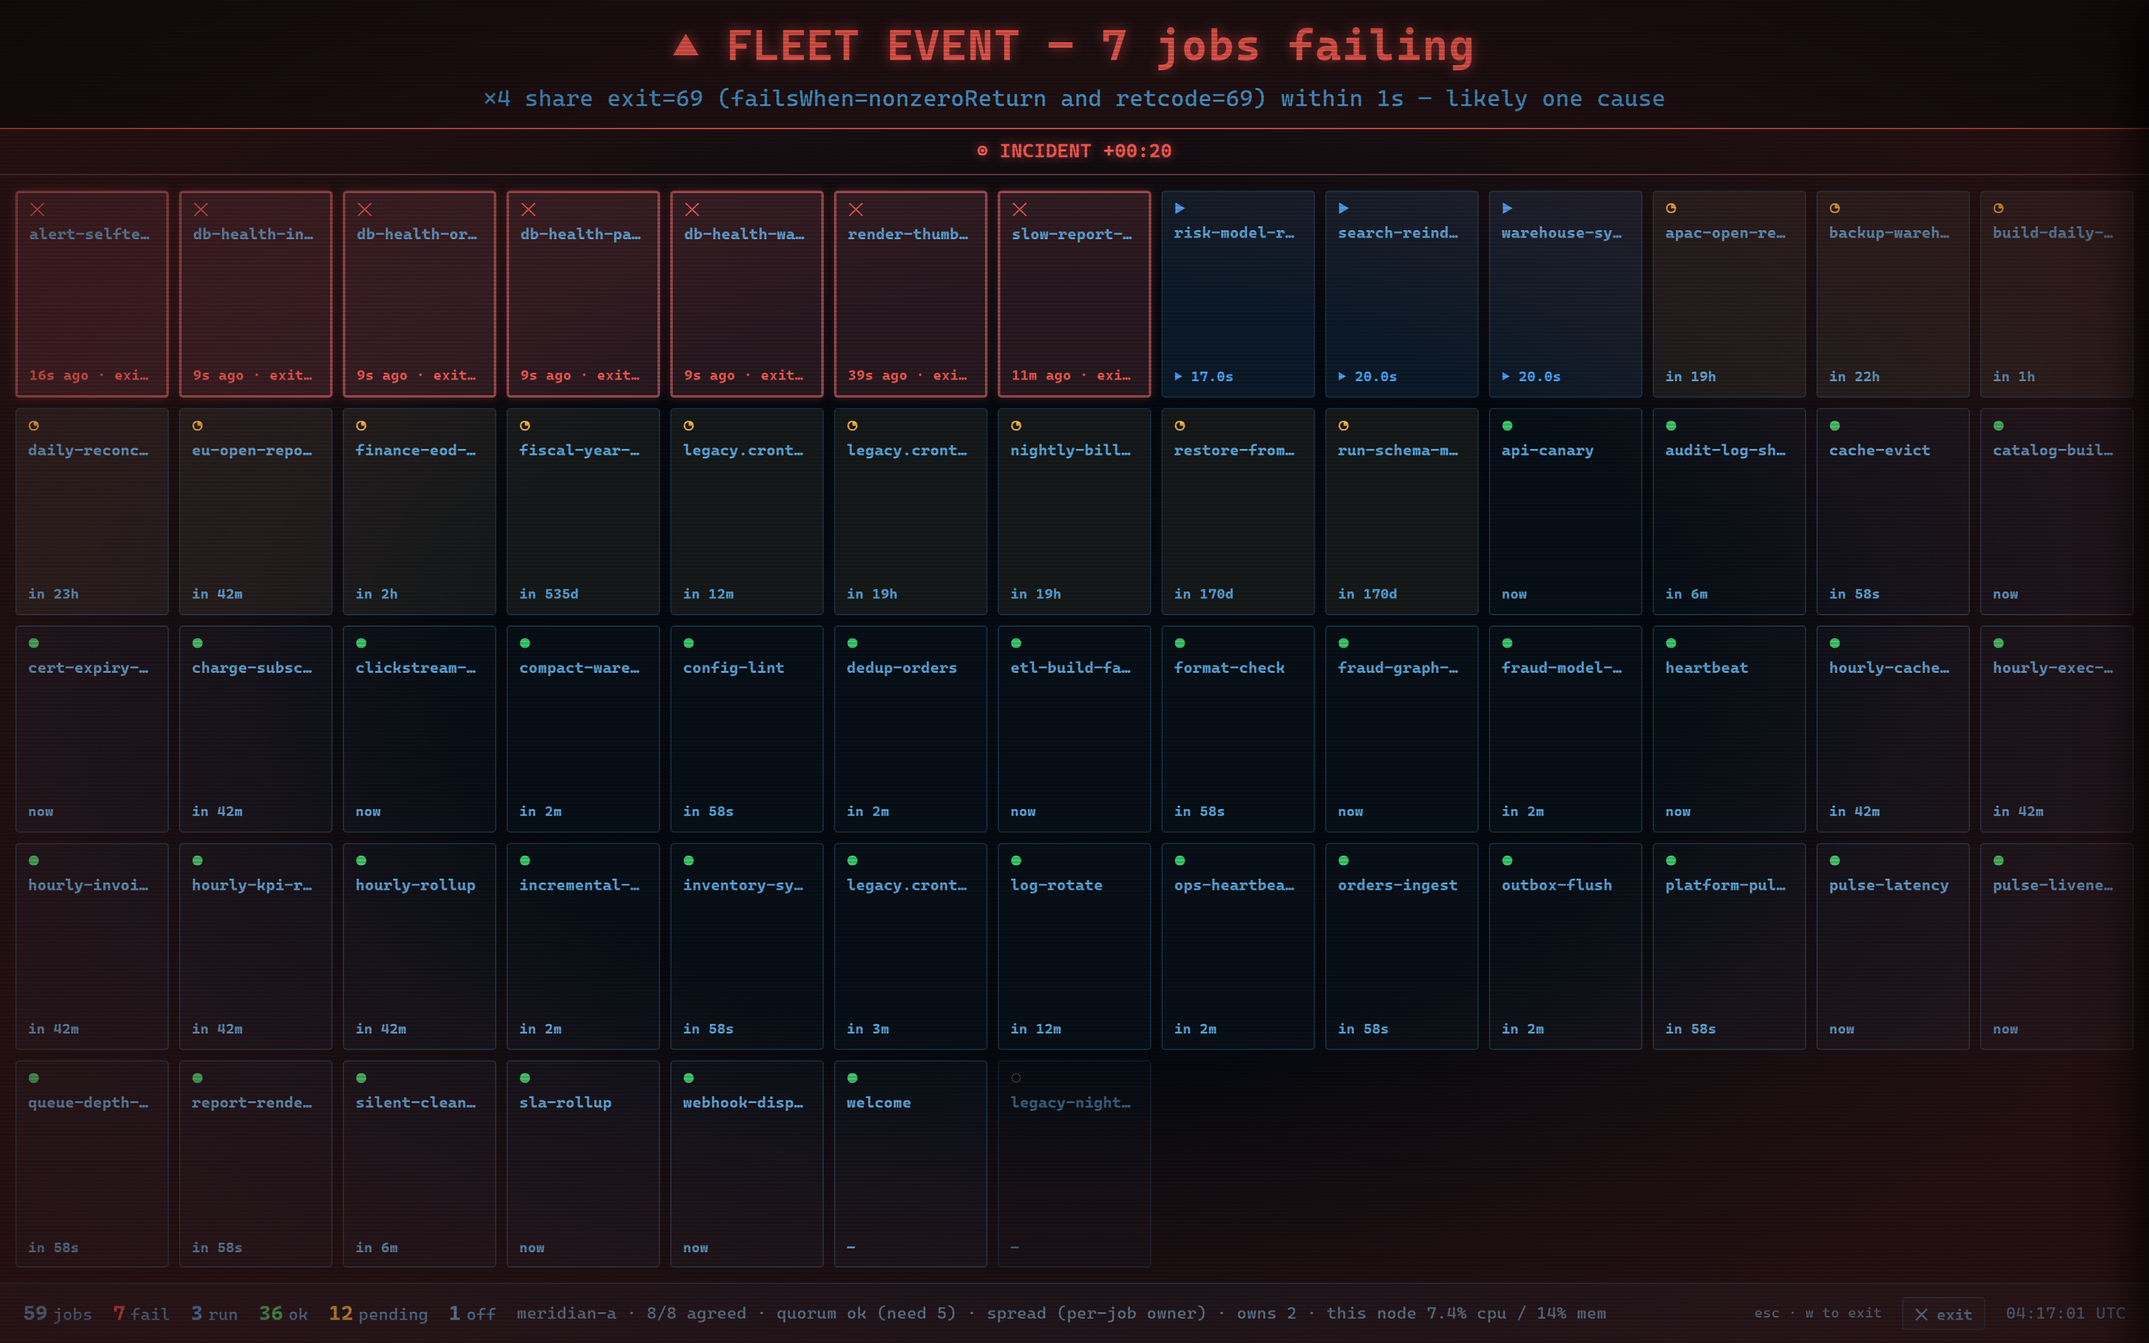
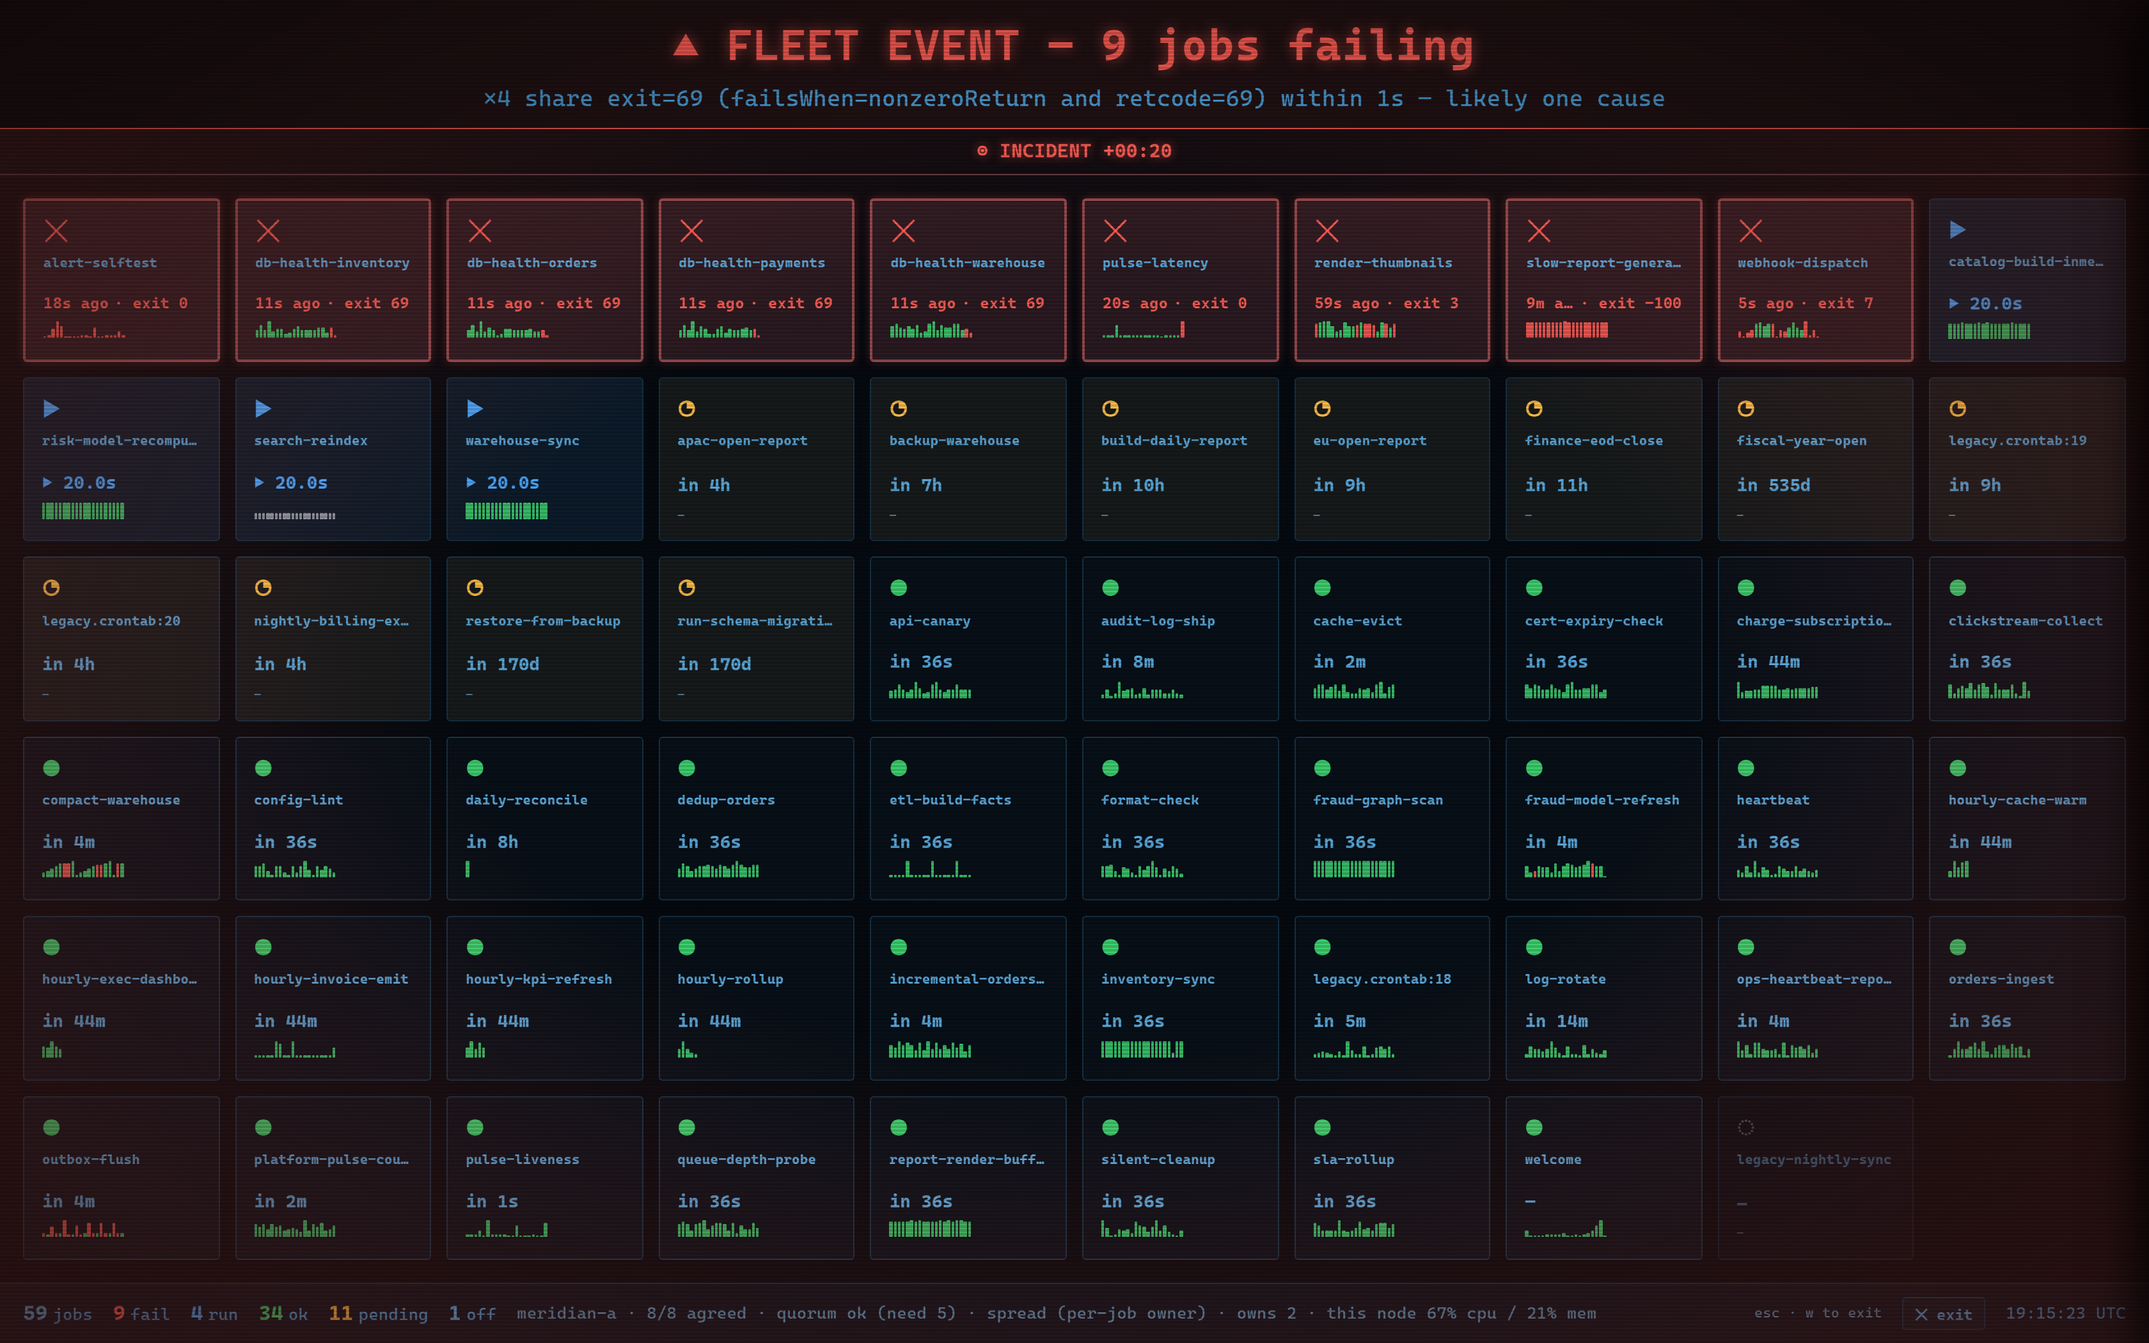
fixes

diff --git a/docs/demo/index.html b/docs/demo/index.html
@@ -910,7 +910,11 @@
   .wb-next.run { color: var(--run); }
   .wb-next.run.long { color: var(--pending); }
   .wb-last { font-weight: 700; font-size: calc(15px * var(--wb-u, 1)); font-variant-numeric: tabular-nums; margin-top: auto;
-    white-space: nowrap; overflow: hidden; text-overflow: ellipsis; }
+    display: flex; gap: 4px; min-width: 0; white-space: nowrap; overflow: hidden; }
+  /* on a tight tile the AGE yields, never the exit code -- "16s… · exit 69"
+     still answers "what broke"; "16s ago · exi…" answers nothing */
+  .wb-last .wb-ago { flex: 0 1 auto; overflow: hidden; text-overflow: ellipsis; }
+  .wb-last .wb-exit { flex: none; }
   .wb-last.fail { color: var(--fail); }
   .wb-last.cancelled { color: var(--cancelled); }
   .wb-last.unknown { color: var(--unknown); }
@@ -970,14 +974,16 @@
   .wb-verdict.sev-crit { background: color-mix(in srgb, var(--fail) 12%, var(--bg)); border-bottom-color: var(--fail); }
   .wb-verdict.sev-crit .head { color: var(--fail); }
   body.fx .wb-verdict.sev-crit .head { text-shadow: 0 0 10px color-mix(in srgb, var(--fail) 60%, transparent); }
-  /* compact tile mode (fit governor): trade the spark for density before
-     anything has to be cut */
+  /* compact tile mode (fit governor): denser tiles before anything has to be
+     cut. Compact rows stretch (1fr) to fill the glass, so the spark is only
+     dropped while the rows are actually tight -- wb-roomy (stretched rows
+     re-earn the spark's height) keeps the trail */
   .wallboard.wb-compact .wb-grid { grid-template-columns: repeat(auto-fill, minmax(120px, 1fr)); grid-auto-rows: minmax(68px, 1fr); gap: 8px; padding: 12px; }
   .wallboard.wb-compact .wb-tile { padding: 6px 9px; gap: 2px; }
   .wallboard.wb-compact .wb-glyph { font-size: 15px; }
   .wallboard.wb-compact .wb-name { font-size: 12px; }
   .wallboard.wb-compact .wb-next, .wallboard.wb-compact .wb-last { font-size: 11px; }
-  .wallboard.wb-compact .wb-spark { display: none; }
+  .wallboard.wb-compact:not(.wb-roomy) .wb-spark { display: none; }
   body.tv > header, body.tv > main { display: none; }
   /* Surfaces the app can open while the wallboard is up -- the auto-opened 401
      token modal, the ⌘K palette, the drawer, toasts -- must stack ABOVE its
@@ -4469,9 +4475,9 @@ try { document.title = "cronstable // live dashboard demo"; } catch (e) {}
           // existing per-second pass, so the age stays live between polls
           line = '<div class="wb-last ' + h.key + '">' +
             (lr && lr.finished_at
-              ? '<span data-ago="' + escAttr(lr.finished_at) + '">' + esc(fmtAgo(lr.finished_at)) + "</span>"
-              : "<span>" + (h.key === "unknown" ? "interrupted" : "—") + "</span>") +
-            (h.key === "fail" && lr && lr.exit_code != null ? " · exit " + esc(lr.exit_code) : "") +
+              ? '<span class="wb-ago" data-ago="' + escAttr(lr.finished_at) + '">' + esc(fmtAgo(lr.finished_at)) + "</span>"
+              : '<span class="wb-ago">' + (h.key === "unknown" ? "interrupted" : "—") + "</span>") +
+            (h.key === "fail" && lr && lr.exit_code != null ? '<span class="wb-exit">· exit ' + esc(lr.exit_code) + "</span>" : "") +
             "</div>";
         } else if (!job.enabled) {
           line = '<div class="wb-next">—</div>';
@@ -4555,10 +4561,17 @@ try { document.title = "cronstable // live dashboard demo"; } catch (e) {}
   }
   // ---- fit-to-screen governor ---------------------------------------
   // A TV has no one to scroll it, so the grid must never silently clip.
-  // Three regimes, re-decided on every paint and resize:
+  // Regimes, re-decided on every paint and resize:
   //   sparse  -- fewer tiles than fill the screen at 190px: grow them (and
   //              their type, via the --wb-u scale unit) to use the glass;
-  //   compact -- too many for full tiles: denser 120px tiles, spark dropped;
+  //   scaled  -- full tiles shrink to as little as WB_SPARSE_MIN before
+  //              giving anything up: a smaller tile that keeps its name,
+  //              glance line AND spark beats compact density, which buys
+  //              room a mid-size board then wastes as stretched dead space;
+  //   compact -- below the floor: denser 120px tiles. Compact rows stretch
+  //              (1fr) to fill the glass, so when the stretched height
+  //              re-earns the spark (roomyH) the trail comes back
+  //              (wb-roomy); only a truly tight board drops it;
   //   cut     -- too many even compact: hide the tail (worst-first sorting
   //              makes it the least interesting slice) behind an explicit
   //              footer chip computed from what was ACTUALLY cut.
@@ -4569,16 +4582,18 @@ try { document.title = "cronstable // live dashboard demo"; } catch (e) {}
   // over-penalizing dense boards the way a padded constant would.
   // ch stays in lockstep with the .wb-compact grid-auto-rows rule; pad/cpad
   // are per-regime model paddings (measuring the live padding would make the
-  // compact<->full decision depend on the regime already applied).
-  const WB_TILE = { w: 190, fixH: 41, varH: 95, gap: 12, pad: 18, cw: 120, ch: 68, cgap: 8, cpad: 12 };
-  const WB_SPARSE_MIN = 0.85;   // below this scale full tiles read worse than compact density
+  // compact<->full decision depend on the regime already applied). roomyH is
+  // the compact tile's content stack including its 16px spark (~80px) plus
+  // breathing room, so a wb-roomy tile never clips the trail it re-admits.
+  const WB_TILE = { w: 190, fixH: 41, varH: 95, gap: 12, pad: 18, cw: 120, ch: 68, cgap: 8, cpad: 12, roomyH: 92 };
+  const WB_SPARSE_MIN = 0.7;    // full-tile floor: glance type ~12px, name ~9px -- small, but it keeps the trail
   function fitWallboardGrid() {
     if (!state.wallboard) return;
     const g = $("wbGrid"), wb = $("wallboard"), chip = $("wbMore");
     const tiles = g.children, n = tiles.length;
     const W = g.clientWidth - 2 * WB_TILE.pad;
     const H = g.clientHeight - 2 * WB_TILE.pad;
-    let compact = false, cap = n, u = 1, cols = 0;
+    let compact = false, roomy = false, cap = n, u = 1, cols = 0;
     if (n && W > 0 && H > 0) {
       // the largest uniform scale that shows all n full-size tiles unclipped
       let best = 0;
@@ -4597,9 +4612,15 @@ try { document.title = "cronstable // live dashboard demo"; } catch (e) {}
         const cc = Math.max(1, Math.floor((W2 + WB_TILE.cgap) / (WB_TILE.cw + WB_TILE.cgap)));
         const cr = Math.max(1, Math.floor((H2 + WB_TILE.cgap) / (WB_TILE.ch + WB_TILE.cgap)));
         cap = cc * cr;
+        // 1fr stretches the rows actually shown to fill the glass: when the
+        // stretch re-earns the spark's height, keep the trail -- density
+        // that pays out as dead space is worse than the tiles it replaced
+        const rowsShown = Math.max(1, Math.ceil(Math.min(n, cap) / cc));
+        roomy = (H2 - (rowsShown - 1) * WB_TILE.cgap) / rowsShown >= WB_TILE.roomyH;
       }
     }
     wb.classList.toggle("wb-compact", compact);
+    wb.classList.toggle("wb-roomy", roomy);
     wb.style.setProperty("--wb-u", u.toFixed(2));
     g.style.gridTemplateColumns = cols ? "repeat(" + cols + ", 1fr)" : "";
     g.style.gridAutoRows = cols ? "minmax(" + Math.floor(WB_TILE.fixH + WB_TILE.varH * u) + "px, 1fr)" : "";

diff --git a/cronstable/web/index.html b/cronstable/web/index.html
@@ -910,7 +910,11 @@
   .wb-next.run { color: var(--run); }
   .wb-next.run.long { color: var(--pending); }
   .wb-last { font-weight: 700; font-size: calc(15px * var(--wb-u, 1)); font-variant-numeric: tabular-nums; margin-top: auto;
-    white-space: nowrap; overflow: hidden; text-overflow: ellipsis; }
+    display: flex; gap: 4px; min-width: 0; white-space: nowrap; overflow: hidden; }
+  /* on a tight tile the AGE yields, never the exit code -- "16s… · exit 69"
+     still answers "what broke"; "16s ago · exi…" answers nothing */
+  .wb-last .wb-ago { flex: 0 1 auto; overflow: hidden; text-overflow: ellipsis; }
+  .wb-last .wb-exit { flex: none; }
   .wb-last.fail { color: var(--fail); }
   .wb-last.cancelled { color: var(--cancelled); }
   .wb-last.unknown { color: var(--unknown); }
@@ -970,14 +974,16 @@
   .wb-verdict.sev-crit { background: color-mix(in srgb, var(--fail) 12%, var(--bg)); border-bottom-color: var(--fail); }
   .wb-verdict.sev-crit .head { color: var(--fail); }
   body.fx .wb-verdict.sev-crit .head { text-shadow: 0 0 10px color-mix(in srgb, var(--fail) 60%, transparent); }
-  /* compact tile mode (fit governor): trade the spark for density before
-     anything has to be cut */
+  /* compact tile mode (fit governor): denser tiles before anything has to be
+     cut. Compact rows stretch (1fr) to fill the glass, so the spark is only
+     dropped while the rows are actually tight -- wb-roomy (stretched rows
+     re-earn the spark's height) keeps the trail */
   .wallboard.wb-compact .wb-grid { grid-template-columns: repeat(auto-fill, minmax(120px, 1fr)); grid-auto-rows: minmax(68px, 1fr); gap: 8px; padding: 12px; }
   .wallboard.wb-compact .wb-tile { padding: 6px 9px; gap: 2px; }
   .wallboard.wb-compact .wb-glyph { font-size: 15px; }
   .wallboard.wb-compact .wb-name { font-size: 12px; }
   .wallboard.wb-compact .wb-next, .wallboard.wb-compact .wb-last { font-size: 11px; }
-  .wallboard.wb-compact .wb-spark { display: none; }
+  .wallboard.wb-compact:not(.wb-roomy) .wb-spark { display: none; }
   body.tv > header, body.tv > main { display: none; }
   /* Surfaces the app can open while the wallboard is up -- the auto-opened 401
      token modal, the ⌘K palette, the drawer, toasts -- must stack ABOVE its
@@ -3811,9 +3817,9 @@
           // existing per-second pass, so the age stays live between polls
           line = '<div class="wb-last ' + h.key + '">' +
             (lr && lr.finished_at
-              ? '<span data-ago="' + escAttr(lr.finished_at) + '">' + esc(fmtAgo(lr.finished_at)) + "</span>"
-              : "<span>" + (h.key === "unknown" ? "interrupted" : "—") + "</span>") +
-            (h.key === "fail" && lr && lr.exit_code != null ? " · exit " + esc(lr.exit_code) : "") +
+              ? '<span class="wb-ago" data-ago="' + escAttr(lr.finished_at) + '">' + esc(fmtAgo(lr.finished_at)) + "</span>"
+              : '<span class="wb-ago">' + (h.key === "unknown" ? "interrupted" : "—") + "</span>") +
+            (h.key === "fail" && lr && lr.exit_code != null ? '<span class="wb-exit">· exit ' + esc(lr.exit_code) + "</span>" : "") +
             "</div>";
         } else if (!job.enabled) {
           line = '<div class="wb-next">—</div>';
@@ -3897,10 +3903,17 @@
   }
   // ---- fit-to-screen governor ---------------------------------------
   // A TV has no one to scroll it, so the grid must never silently clip.
-  // Three regimes, re-decided on every paint and resize:
+  // Regimes, re-decided on every paint and resize:
   //   sparse  -- fewer tiles than fill the screen at 190px: grow them (and
   //              their type, via the --wb-u scale unit) to use the glass;
-  //   compact -- too many for full tiles: denser 120px tiles, spark dropped;
+  //   scaled  -- full tiles shrink to as little as WB_SPARSE_MIN before
+  //              giving anything up: a smaller tile that keeps its name,
+  //              glance line AND spark beats compact density, which buys
+  //              room a mid-size board then wastes as stretched dead space;
+  //   compact -- below the floor: denser 120px tiles. Compact rows stretch
+  //              (1fr) to fill the glass, so when the stretched height
+  //              re-earns the spark (roomyH) the trail comes back
+  //              (wb-roomy); only a truly tight board drops it;
   //   cut     -- too many even compact: hide the tail (worst-first sorting
   //              makes it the least interesting slice) behind an explicit
   //              footer chip computed from what was ACTUALLY cut.
@@ -3911,16 +3924,18 @@
   // over-penalizing dense boards the way a padded constant would.
   // ch stays in lockstep with the .wb-compact grid-auto-rows rule; pad/cpad
   // are per-regime model paddings (measuring the live padding would make the
-  // compact<->full decision depend on the regime already applied).
-  const WB_TILE = { w: 190, fixH: 41, varH: 95, gap: 12, pad: 18, cw: 120, ch: 68, cgap: 8, cpad: 12 };
-  const WB_SPARSE_MIN = 0.85;   // below this scale full tiles read worse than compact density
+  // compact<->full decision depend on the regime already applied). roomyH is
+  // the compact tile's content stack including its 16px spark (~80px) plus
+  // breathing room, so a wb-roomy tile never clips the trail it re-admits.
+  const WB_TILE = { w: 190, fixH: 41, varH: 95, gap: 12, pad: 18, cw: 120, ch: 68, cgap: 8, cpad: 12, roomyH: 92 };
+  const WB_SPARSE_MIN = 0.7;    // full-tile floor: glance type ~12px, name ~9px -- small, but it keeps the trail
   function fitWallboardGrid() {
     if (!state.wallboard) return;
     const g = $("wbGrid"), wb = $("wallboard"), chip = $("wbMore");
     const tiles = g.children, n = tiles.length;
     const W = g.clientWidth - 2 * WB_TILE.pad;
     const H = g.clientHeight - 2 * WB_TILE.pad;
-    let compact = false, cap = n, u = 1, cols = 0;
+    let compact = false, roomy = false, cap = n, u = 1, cols = 0;
     if (n && W > 0 && H > 0) {
       // the largest uniform scale that shows all n full-size tiles unclipped
       let best = 0;
@@ -3939,9 +3954,15 @@
         const cc = Math.max(1, Math.floor((W2 + WB_TILE.cgap) / (WB_TILE.cw + WB_TILE.cgap)));
         const cr = Math.max(1, Math.floor((H2 + WB_TILE.cgap) / (WB_TILE.ch + WB_TILE.cgap)));
         cap = cc * cr;
+        // 1fr stretches the rows actually shown to fill the glass: when the
+        // stretch re-earns the spark's height, keep the trail -- density
+        // that pays out as dead space is worse than the tiles it replaced
+        const rowsShown = Math.max(1, Math.ceil(Math.min(n, cap) / cc));
+        roomy = (H2 - (rowsShown - 1) * WB_TILE.cgap) / rowsShown >= WB_TILE.roomyH;
       }
     }
     wb.classList.toggle("wb-compact", compact);
+    wb.classList.toggle("wb-roomy", roomy);
     wb.style.setProperty("--wb-u", u.toFixed(2));
     g.style.gridTemplateColumns = cols ? "repeat(" + cols + ", 1fr)" : "";
     g.style.gridAutoRows = cols ? "minmax(" + Math.floor(WB_TILE.fixH + WB_TILE.varH * u) + "px, 1fr)" : "";

diff --git a/HISTORY.md b/HISTORY.md
@@ -39,13 +39,15 @@ CLI, configuration, and APIs are untouched.
 - **The grid fits itself to the glass.** A TV has no one to scroll it, so a
   new fit governor re-decides the layout on every paint, resize, and zoom
   change: a handful of jobs on a big screen grows its tiles and type
-  proportionally to use the glass; a crowded fleet steps down to compact
-  tiles (sparkline dropped) before anything has to go; and if even that
-  overflows, the healthiest tail is cut behind an explicit footer chip
-  computed from what was actually cut (`+22 offscreen . none failing`,
-  turning red with exact counts if failing or unknown tiles ever overflow a
-  whole screen).  The board never silently clips a failure behind a scrollbar
-  nobody can reach.
+  proportionally to use the glass; a crowded fleet first scales full tiles
+  down -- name, glance line, and run-history sparkline all kept -- before
+  conceding anything; only past the readability floor does it step down to
+  compact tiles, and even those keep the sparkline whenever their stretched
+  rows leave it room; and if even compact overflows, the healthiest tail is
+  cut behind an explicit footer chip computed from what was actually cut
+  (`+22 offscreen . none failing`, turning red with exact counts if failing
+  or unknown tiles ever overflow a whole screen).  The board never silently
+  clips a failure behind a scrollbar nobody can reach.
 
 - **Wallboard correctness fixes.** The `unknown` state was missing from the
   worst-first sort order, which left the entire tile ordering unspecified

diff --git a/wiki/Web-Dashboard.md b/wiki/Web-Dashboard.md
@@ -344,9 +344,11 @@ event, or cluster alert — the same correlation verdict the dashboard's bar
 shows). Clicking a tile exits to that job's drawer; `Esc` or `w` exits.
 
 The grid also fits itself to the glass: a handful of jobs on a big screen get
-proportionally larger tiles and type, a crowded fleet steps down to compact
-tiles, and if even that overflows, the healthiest tail is cut behind an
-explicit footer chip (`+22 offscreen · none failing`) — computed from what was
+proportionally larger tiles and type, a crowded fleet scales full tiles down
+(names, glance lines and sparklines all kept) before stepping down to compact
+tiles — which keep the sparkline too whenever their rows have room for it —
+and if even that overflows, the healthiest tail is cut behind an explicit
+footer chip (`+22 offscreen · none failing`) — computed from what was
 actually cut, so the board never silently clips a failure behind a scrollbar
 nobody can reach.
 
